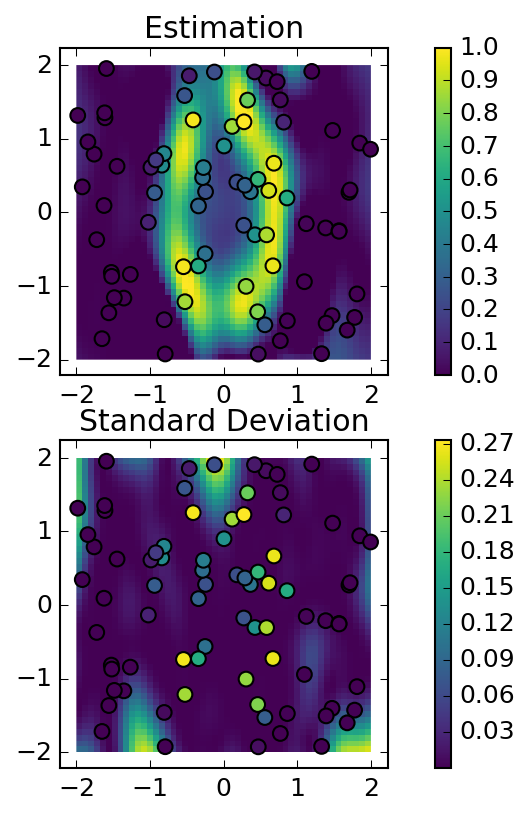
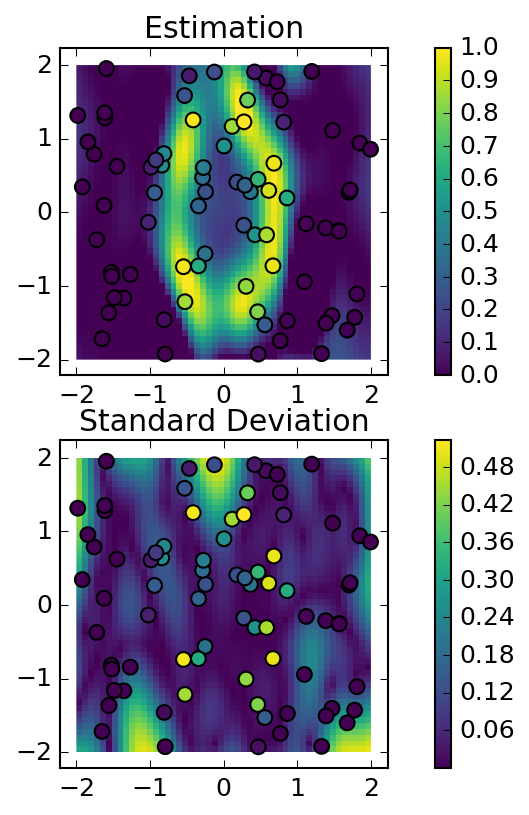
Add partial derivative

Changed region(s): [[0.121, 0.5521, 0.7259, 0.9202], [0.8469, 0.5215, 0.9679, 0.9202], [0.4839, 0.8282, 0.5142, 0.8589]]

diff --git a/gaussian_process.py b/gaussian_process.py
@@ -1,13 +1,18 @@
 """Gaussian process"""
-from tqdm import tqdm
-
 import numpy as np
 import matplotlib.pyplot as plt
+
+from functools import partial
 
 from covariance import Covariance
 
 
 FUZZ = 1e-7
+
+
+class UnsupportedDerivativeOrder(Exception):
+    """Raised when the derivative order is not supported"""
+    pass
 
 
 class GaussianProcess:
@@ -60,6 +65,30 @@ class GaussianProcess:
         cov_matrix = np.zeros((len(list_obs_1), len(list_obs_2)))
         cov_matrix_flat = [
             (i, j, self.covariance(xi, yj))
+            for (i, xi) in enumerate(list_obs_1)
+            for (j, yj) in enumerate(list_obs_2)
+            ]
+        for coord_value in cov_matrix_flat:
+            cov_matrix[coord_value[:2]] = coord_value[2]
+
+        return cov_matrix
+
+    def _compute_covariance_matrix_pd(self, list_obs_1, list_obs_2, pd_dim,
+                                      order=1):
+
+        assert isinstance(list_obs_1, list)
+        assert isinstance(list_obs_2, list)
+
+        if order == 1:
+            fction = self.covariance.compute_pd
+        elif order == 2:
+            fction = partial(self.covariance.compute_pdpd, j=pd_dim)
+        else:
+            raise UnsupportedDerivativeOrder
+
+        cov_matrix = np.zeros((len(list_obs_1), len(list_obs_2)))
+        cov_matrix_flat = [
+            (i, j, fction(xi, yj, pd_dim))
             for (i, xi) in enumerate(list_obs_1)
             for (j, yj) in enumerate(list_obs_2)
             ]
@@ -138,25 +167,38 @@ class GaussianProcess:
         )
         return likelihood
 
-    def mean(self, x):
+    def mean(self, x, derivative=False, i=None):
         """Compute the conditional mean of the Gaussian process
 
         Knowing the observations, compute the value of the mean of the Gaussian
         process at x
 
         :param x: parameter where to evaluate the mean of the Gaussian process
+        :param derivative: boolean, whether or not to compute the derivative
+         of sigma
+        :param i: dimension along which to compute the derivative if True
         :return: interpolated value at x which is the mean of the Gaussian
          process (i.e. mean of the posterior probability of the Gaussian
          process knowing the observations)
         """
 
+        assert isinstance(x, list)
+        assert len(x) > 0
+        assert isinstance(x[0], tuple)
+
+        if derivative:
+            assert 0 <= i < len(x[0])
+            cov_function = partial(
+                self._compute_covariance_matrix_pd, pd_dim=i
+            )
+        else:
+            cov_function = self._compute_covariance_matrix
+
         # assert the Gaussian process is up to date
         self._gp_up_to_date()
 
         # Compute the correlation between the parameter x and the observation
-        current_cov = self._compute_covariance_matrix(
-            x, self.list_observations
-        )
+        current_cov = cov_function(x, self.list_observations)
         # Solve the linear system
         centered_list_y, mean = self._center_data(self.list_y)
         y = np.linalg.solve(self.cov_matrix, centered_list_y)
@@ -171,6 +213,10 @@ class GaussianProcess:
         :param x: parameter where to sample the Gaussian process
         :return: a sample from the Gaussian process
         """
+
+        assert isinstance(x, list)
+        assert len(x) > 0
+        assert isinstance(x[0], tuple)
 
         mean = self.mean(x)
         sigma = self.sigma(x)
@@ -187,24 +233,42 @@ class GaussianProcess:
 
         return sample
 
-    def sigma(self, x):
+    def sigma(self, x, derivative=False, i=None):
         """Compute the conditional variance of the Gaussian process
 
         Knowing the observations, compute the value of the variance of the
         Gaussian process at x
 
         :param x: parameter where to evaluate the mean of the Gaussian process
+        :param derivative: boolean, whether or not to compute the derivative
+         of sigma
+        :param i: dimension along which to compute the derivative if True
         :return: variance of the Gaussian process at x (i.e. mean of the
          posterior probability of the Gaussian process knowing the
          observations)
         """
 
+        assert isinstance(x, list)
+        assert len(x) > 0
+        assert isinstance(x[0], tuple)
+        if derivative:
+            assert 0 <= i < len(x[0])
+            auto_cov_function = partial(
+                self._compute_covariance_matrix_pd, pd_dim=i, order=2
+            )
+            cov_function = partial(
+                self._compute_covariance_matrix_pd, pd_dim=i
+            )
+        else:
+            auto_cov_function = self._compute_covariance_matrix
+            cov_function = self._compute_covariance_matrix
+
         # assert the Gaussian process is up to date
         self._gp_up_to_date()
 
-        current_sigma = self._compute_covariance_matrix(x, x)
+        current_sigma = auto_cov_function(x, x)
         # Compute the correlation between the parameter x and the observation
-        current_cov = self._compute_covariance_matrix(
+        current_cov = cov_function(
             x, self.list_observations
         )
         # Solve the linear system
@@ -253,16 +317,16 @@ class GaussianProcess1d(GaussianProcess):
         for _ in range(n_samples):
             plt.plot(list_x, self.sample(list_x), color='black', linewidth='1')
         if confidence_band:
-            plt.plot(list_x, mean + sigma, color='g',
+            plt.plot(list_x, mean + 2*np.sqrt(sigma), color='g',
                      linewidth='2')
-            plt.plot(list_x, mean - sigma, color='g',
+            plt.plot(list_x, mean - 2*np.sqrt(sigma), color='g',
                      linewidth='2')
         plt.plot(list_x, mean, color='b', linewidth='3')
         plt.scatter(
             self.list_observations, self.list_y, s=50, facecolors='white',
             zorder=3
         )
-        plt.axis([list_x[0], list_x[-1], ymin, ymax])
+        plt.axis([list_x[0][0], list_x[-1][0], ymin, ymax])
 
 
 class GaussianProcess2d(GaussianProcess):
@@ -339,7 +403,7 @@ class GaussianProcess2d(GaussianProcess):
         )
         self._plot_data(
             fig, ax[1],
-            img=sigma, x=x, y=y,
+            img=np.sqrt(sigma), x=x, y=y,
             xmin=list_x[0], xmax=list_x[-1],
             ymin=list_y[0], ymax=list_y[-1], title='Standard Deviation'
         )

diff --git a/script/example_1d.py b/script/example_1d.py
@@ -24,7 +24,7 @@ def example_interpolation(xmin, xmax, ymin, ymax,
     list_observations, list_y = get_observations(xmin, xmax, n)
 
     # Define a Gaussian process with the optimized parameters
-    cov = SquaredExponential(w0, w1)
+    cov = SquaredExponential(w0, np.array([w1]))
     gp = GaussianProcess1d(
         covariance=cov, list_observations=list_observations,
         list_y=list_y
@@ -33,7 +33,8 @@ def example_interpolation(xmin, xmax, ymin, ymax,
 
     # Plot the interpolation
     x_vec = np.linspace(xmin, xmax, 50)
-    gp.plot(list_x=x_vec.tolist(), ymin=ymin, ymax=ymax, confidence_band=False)
+    x_vec = [(x,) for x in x_vec]
+    gp.plot(list_x=x_vec, ymin=ymin, ymax=ymax, confidence_band=False)
     plt.savefig(title, dpi=150, bbox_inches='tight')
     plt.close()
 
@@ -117,7 +118,8 @@ def main():
     # Plot the interpolation
     logger.info('Plot the interpolation')
     x_vec = np.linspace(xmin, xmax, 50)
-    gp.plot(list_x=x_vec.tolist(), ymin=ymin, ymax=ymax, n_samples=0)
+    x_vec = [(x,) for x in x_vec]
+    gp.plot(list_x=x_vec, ymin=ymin, ymax=ymax, n_samples=0)
     plt.savefig('figures/1d_estimation.png', dpi=150, bbox_inches='tight')
     plt.close()
 
